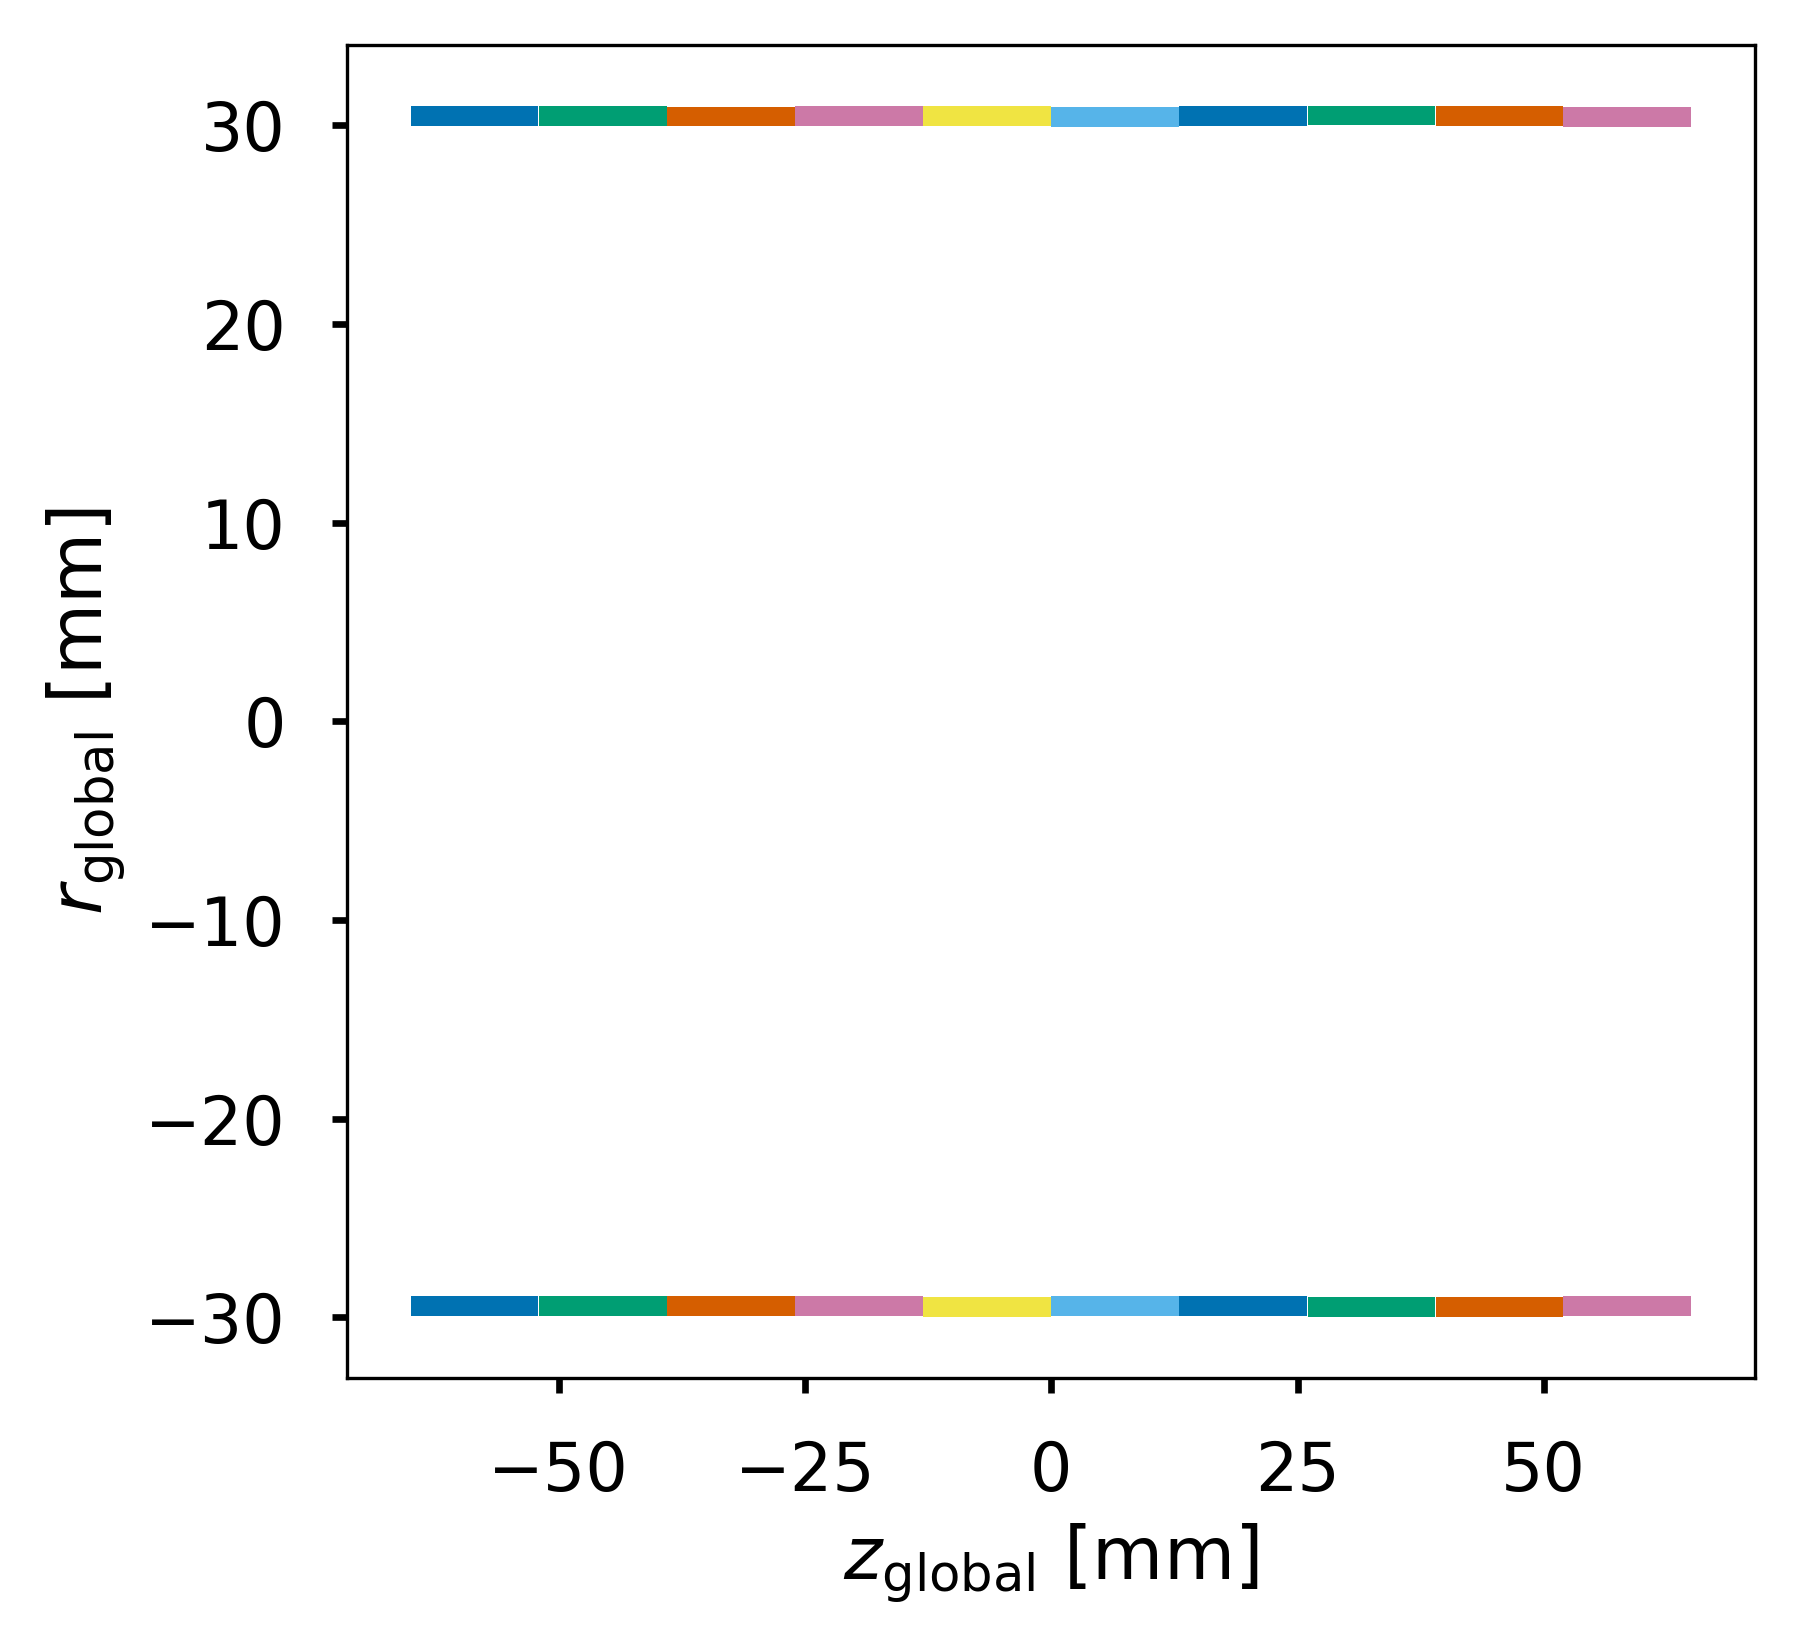
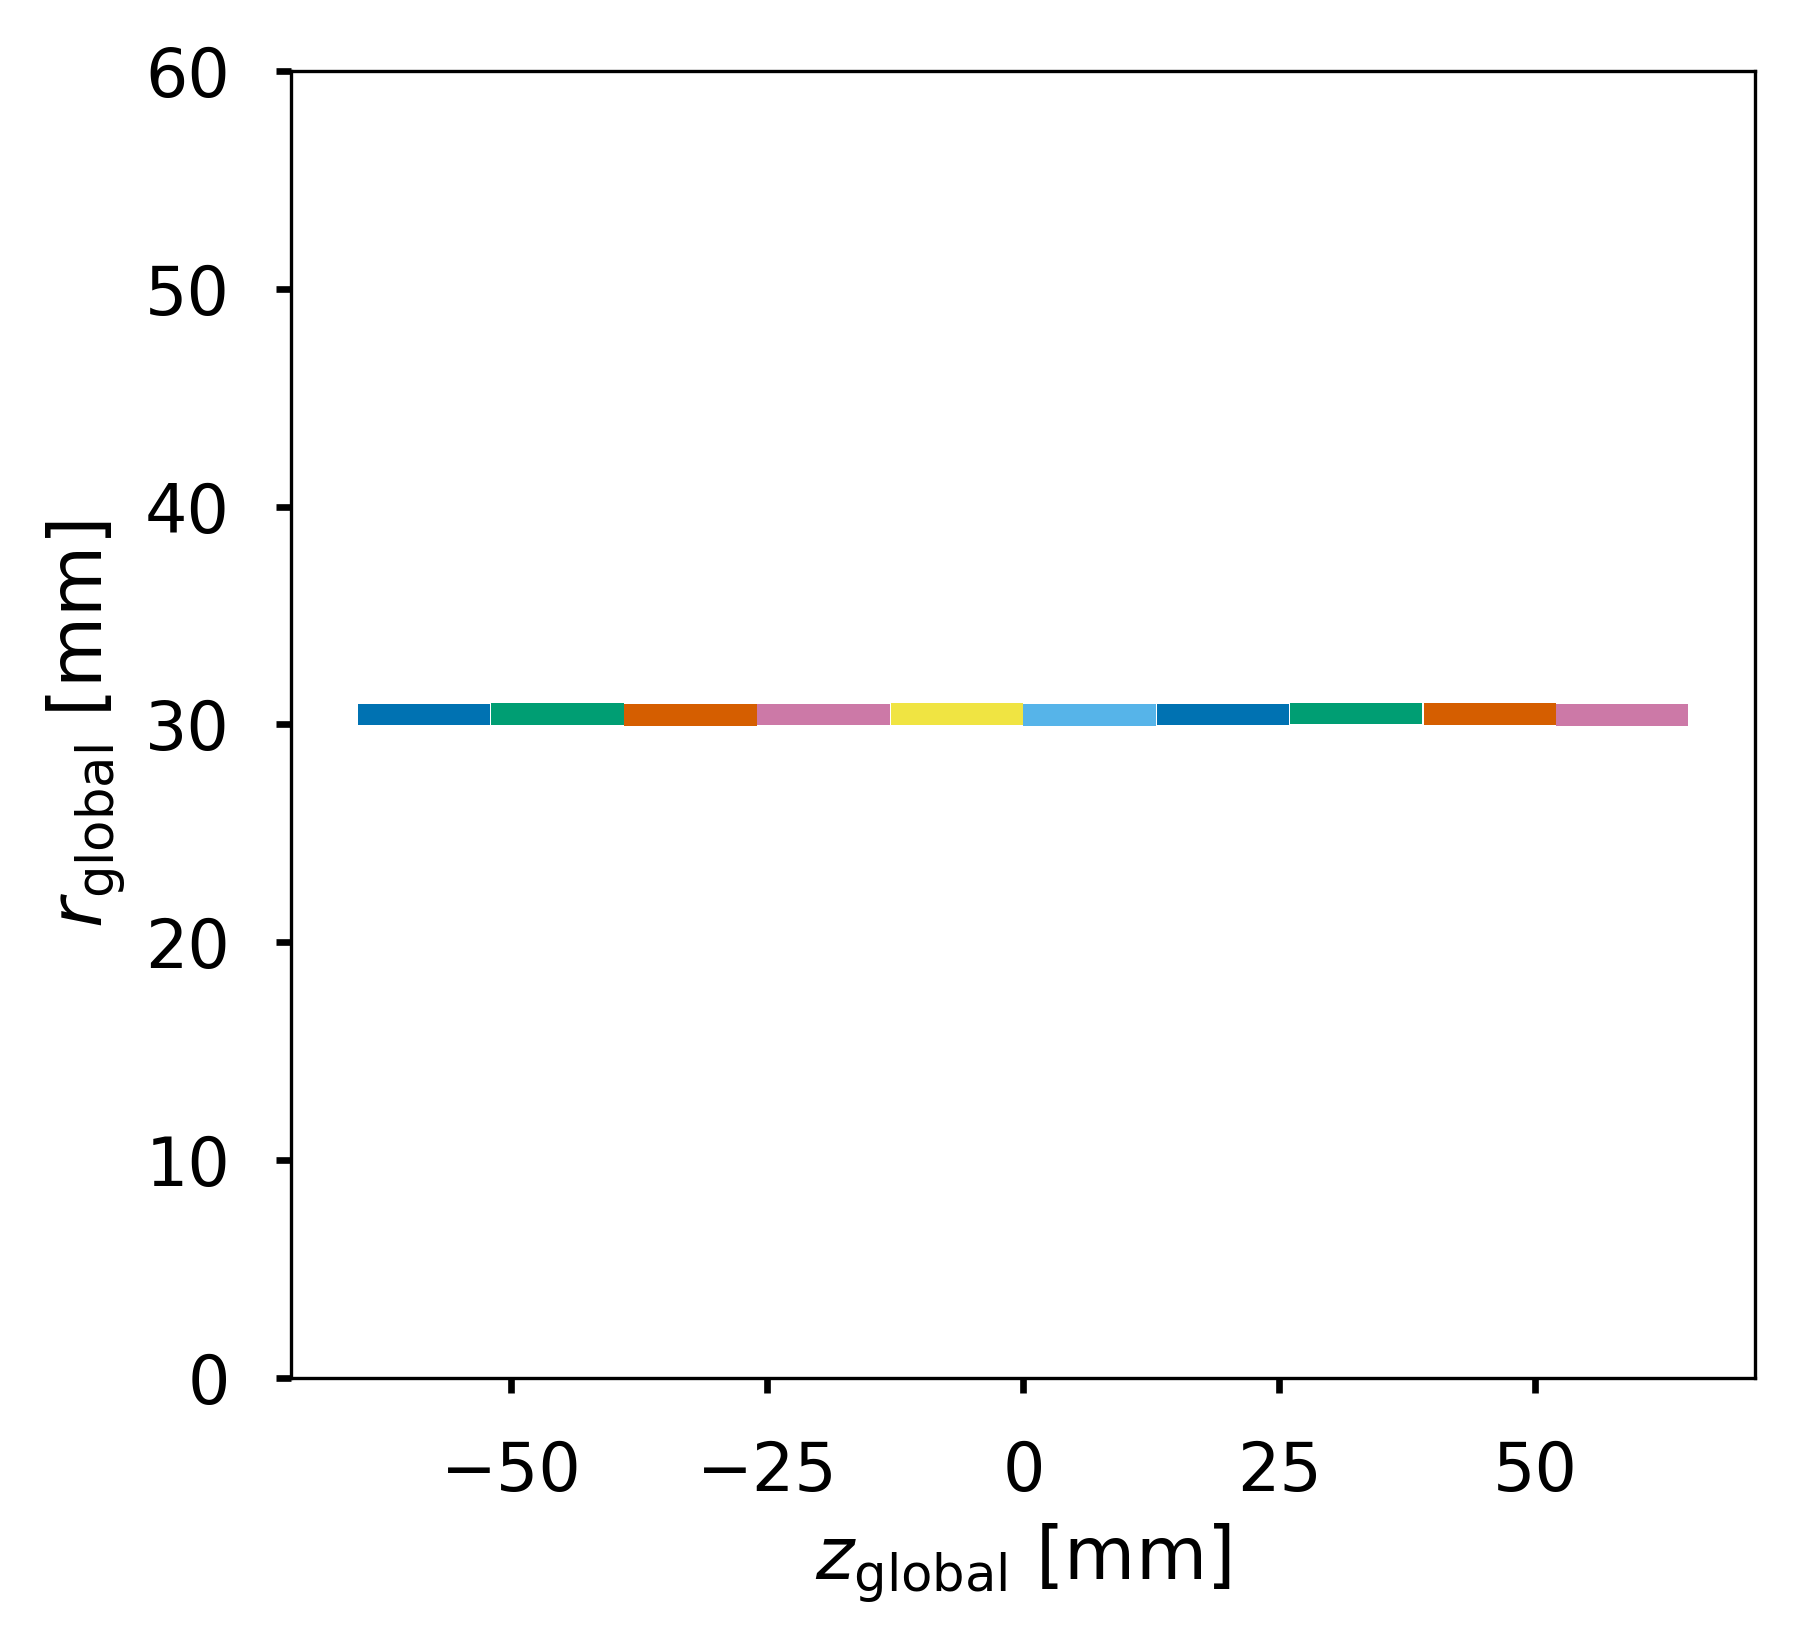
Mild update to rz module layout plot

diff --git a/paperPlots/moduleLayoutPlot.py b/paperPlots/moduleLayoutPlot.py
@@ -166,7 +166,7 @@ def plotRZPlanev2(sig, figsize=(4, 1.5), thickness=1 ):
 
     ax.relim()
     ax.autoscale_view()
-    # plt.ylim([0, 60])
+    plt.ylim([0, 60])
     plt.xlabel(r"$z_{\mathrm{global}}$ [mm]")
     plt.ylabel(r"$r_{\mathrm{global}}$ [mm]")
     plt.tight_layout()
